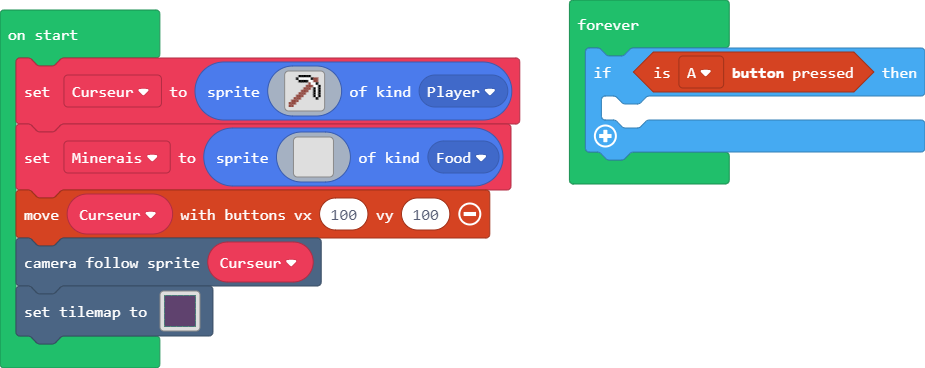
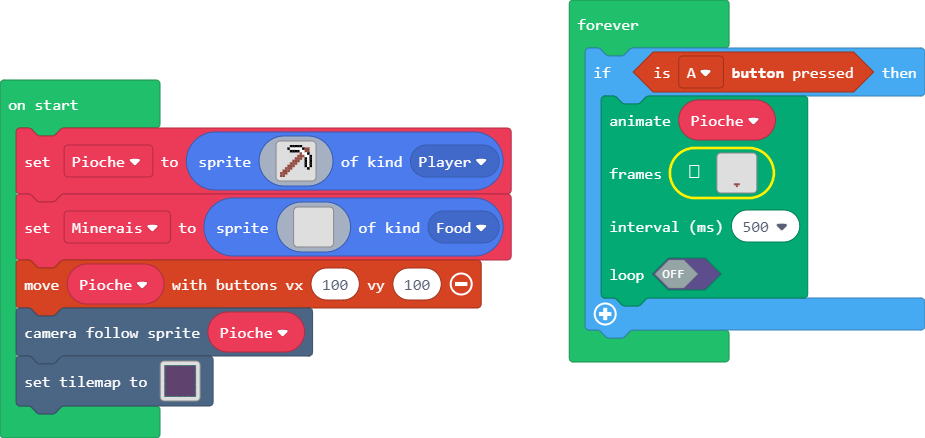
Update main.blocks, main.ts

diff --git a/main.ts b/main.ts
@@ -19,7 +19,7 @@ namespace myTiles {
 . . . . . . . . . . . . . . . . 
 `
 }
-let Curseur = sprites.create(img`
+let Pioche = sprites.create(img`
 . . . . f f f f f . . . . 
 . . . f 1 1 1 1 1 f e e . 
 . . . . f f f f 1 1 e e . 
@@ -68,8 +68,8 @@ let Minerais = sprites.create(img`
 . . . . . . . . . . . . . . . . . . . . . . . . . . . . . . . . 
 . . . . . . . . . . . . . . . . . . . . . . . . . . . . . . . . 
 `, SpriteKind.Food)
-controller.moveSprite(Curseur, 100, 100)
-scene.cameraFollowSprite(Curseur)
+controller.moveSprite(Pioche, 100, 100)
+scene.cameraFollowSprite(Pioche)
 tiles.setTilemap(tiles.createTilemap(
[1 lines of base64/hex data omitted]
             img`
@@ -111,6 +111,28 @@ tiles.setTilemap(tiles.createTilemap(
         ))
 forever(function () {
     if (controller.A.isPressed()) {
-    	
+        animation.runImageAnimation(
+        Pioche,
+        [img`
+. . . . . . . . . . . . . . . . . 
+. . . . . . . . . . . . . . . . . 
+. . . . . . . . . . . . . . . . . 
+. . . . . . . . . . . . . . . . . 
+. . . . . . . . . . . . . . . . . 
+. . . . . . . . . . . . . . . . . 
+. . . . . . . . . . . . . . . . . 
+. . . . . . . . . . . . . . . . . 
+. . . . . . . . . . . . . . . . . 
+. . . . . . . . . . . . . . . . . 
+. . . . . . . . . . . . . . . . . 
+. . . . . . . . . . . . . . . . . 
+. . . . . . . . . . . . . . . . . 
+. . . . . . . . . . . . . . . . . 
+. . . . . . . e e e . . . . . . . 
+. . . . . . . . e . . . . . . . . 
+`],
+        500,
+        false
+        )
     }
 })
